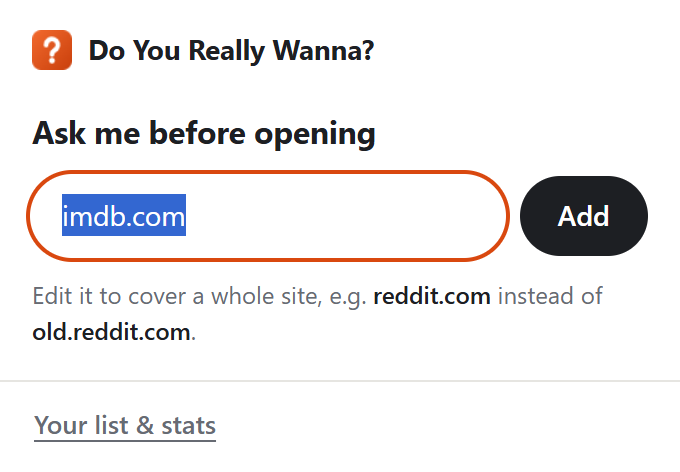
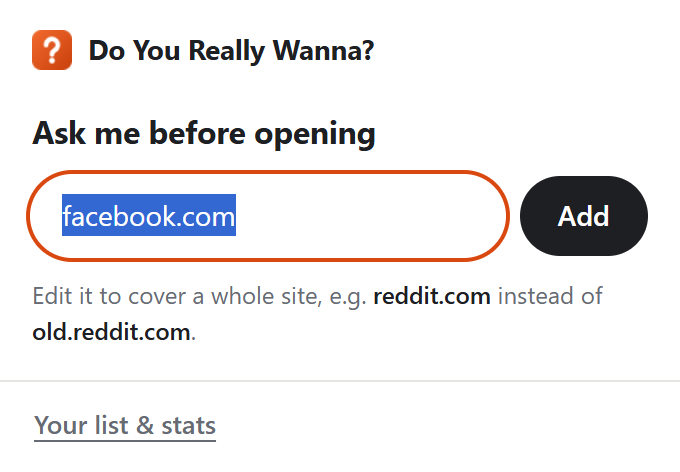
docs: use everyday sites as examples instead of Letterboxd and IMDb
README, screenshots, roadmap and test data now use Instagram, Gmail and
Facebook, which more people actually open on autopilot. D-015 keeps its
original wording, since old decisions aren't rewritten.

Changed region(s): [[0.0926, 0.3856, 0.3706, 0.5042]]

diff --git a/tests/unit/domains.test.js b/tests/unit/domains.test.js
@@ -14,8 +14,8 @@ describe('normalizeDomain', () => {
     ['reddit.com', 'reddit.com'],
     ['  Reddit.COM  ', 'reddit.com'],
     ['https://www.youtube.com/watch?v=abc', 'youtube.com'],
-    ['www.letterboxd.com/film/x/', 'letterboxd.com'],
-    ['http://user:pass@imdb.com:8080/title', 'imdb.com'],
+    ['www.instagram.com/explore/', 'instagram.com'],
+    ['http://user:pass@facebook.com:8080/groups', 'facebook.com'],
     ['mail.google.com', 'mail.google.com'],
     ['https://mail.google.com/mail/u/0/#inbox', 'mail.google.com'],
     ['*.reddit.com', 'reddit.com'],
@@ -81,7 +81,7 @@ describe('findSiteForUrl', () => {
     assert.equal(findSiteForUrl('https://old.reddit.com/', list), 'reddit.com');
   });
   it('returns null when nothing matches', () => {
-    assert.equal(findSiteForUrl('https://letterboxd.com/', list), null);
+    assert.equal(findSiteForUrl('https://instagram.com/', list), null);
     assert.equal(findSiteForUrl('edge://newtab/', list), null);
   });
 });

diff --git a/tests/unit/stats.test.js b/tests/unit/stats.test.js
@@ -19,15 +19,15 @@ describe('addEvent', () => {
     let stats = addEvent(empty, 'reddit.com', 'paused', '2026-11-19');
     stats = addEvent(stats, 'reddit.com', 'paused', '2026-11-19');
     stats = addEvent(stats, 'reddit.com', 'opened', '2026-11-19');
-    stats = addEvent(stats, 'imdb.com', 'paused', '2026-11-19');
-    assert.deepEqual(stats, { '2026-11-19': { 'reddit.com': [2, 1], 'imdb.com': [1, 0] } });
+    stats = addEvent(stats, 'facebook.com', 'paused', '2026-11-19');
+    assert.deepEqual(stats, { '2026-11-19': { 'reddit.com': [2, 1], 'facebook.com': [1, 0] } });
     assert.deepEqual(empty, {});
   });
 });
 
 describe('sumCounts', () => {
   const stats = {
-    '2026-11-19': { 'reddit.com': [5, 1], 'imdb.com': [2, 2] },
+    '2026-11-19': { 'reddit.com': [5, 1], 'facebook.com': [2, 2] },
     '2026-11-18': { 'reddit.com': [3, 0] },
     '2026-10-01': { 'reddit.com': [10, 4] },
   };

diff --git a/tests/unit/misc.test.js b/tests/unit/misc.test.js
@@ -75,7 +75,7 @@ describe('backup', () => {
         sites: { 'https://www.YouTube.com/': { added: 5 }, 'javascript:alert(1)': {}, localhost: {} },
         settings: { graceMinutes: 9999 },
         stats: {
-          '2026-11-19': { 'youtube.com': [3, 7], 'bad host': [1, 0], 'imdb.com': [-1, 0] },
+          '2026-11-19': { 'youtube.com': [3, 7], 'bad host': [1, 0], 'facebook.com': [-1, 0] },
           yesterday: { 'reddit.com': [1, 0] },
         },
       }),

diff --git a/README.md b/README.md
@@ -20,7 +20,7 @@
 
 You know the move. You're supposed to be doing something else, or you meant
 to get up from the computer, and your hands have already opened YouTube,
-Reddit, Letterboxd or your inbox. You're not looking for anything. You just
+Reddit, Instagram or Gmail. You're not looking for anything. You just
 scroll.
 
 Blockers don't fit, because you actually *need* those sites sometimes.
@@ -68,7 +68,7 @@ had a second to think about *why* you were opening it.
 <table>
   <tr>
     <td width="62%" valign="top"><img src="docs/images/settings.png" alt="Your list & stats page: You turned back 9 of 14 times today, with a tally of today's pauses; the list of sites with today's and the last 7 days' numbers; settings written as sentences; backup buttons." /></td>
-    <td width="38%" valign="top"><img src="docs/images/popup.png" alt="Toolbar popup: Ask me before opening imdb.com, with an Add button." /></td>
+    <td width="38%" valign="top"><img src="docs/images/popup.png" alt="Toolbar popup: Ask me before opening facebook.com, with an Add button." /></td>
   </tr>
   <tr>
     <td align="center"><sub>Your list &amp; stats</sub></td>

diff --git a/docs/ROADMAP.md b/docs/ROADMAP.md
@@ -14,7 +14,7 @@ in [DECISIONS.md](DECISIONS.md); what actually changed lives in
       Domains and counts only, never URLs. Keep 14 days.
 - [ ] When a domain crosses a threshold (e.g. 8+ opens on 3 of the last 7
       days), the next time it's opened show the pause page in "suggestion"
-      mode: "I noticed you open imdb.com a lot. Do you open it out of habit?"
+      mode: "I noticed you open facebook.com a lot. Do you open it out of habit?"
       → **Add it to my list** / **It's fine, don't ask again** / **Just let me in**.
 - [ ] "Don't ask again" list, editable on the settings page.
 - [ ] Turning suggestions off deletes the collected counts and gives the

diff --git a/CHANGELOG.md b/CHANGELOG.md
@@ -21,6 +21,8 @@ under a new version heading and gets a `vX.Y.Z` git tag.
   number inline. With an empty list the page opens with "What do you open
   on autopilot?".
 - Light mode uses a white background instead of cream, on every page.
+- README, screenshots and tests use everyday sites as examples (Instagram,
+  Gmail, Facebook) instead of Letterboxd and IMDb.
 
 ### Removed
 
